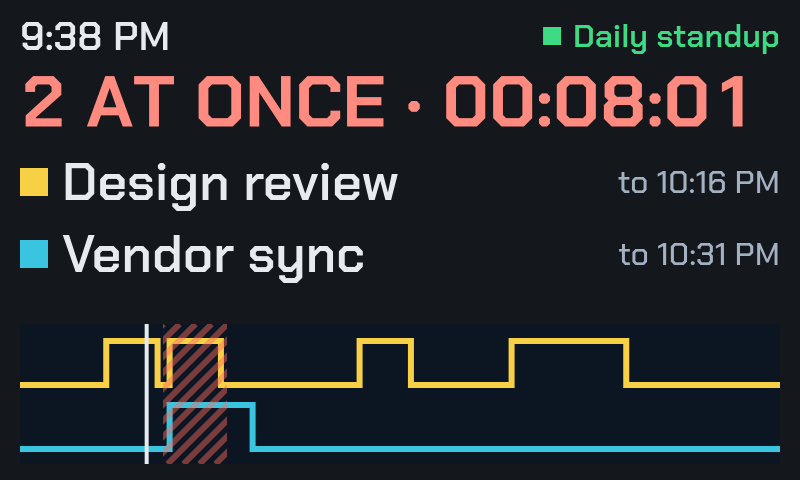
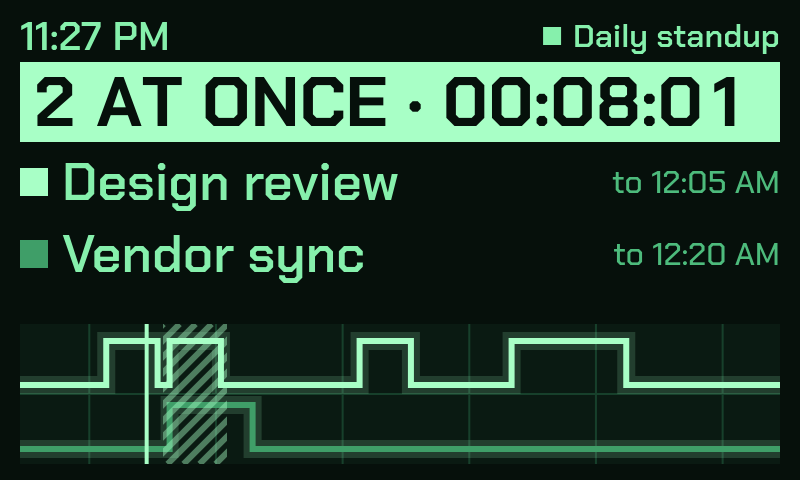
Switch the display to a green phosphor monochrome palette
Match the look of an old benchtop scope. With a single hue, collisions
and the offline flag use inverse video, the second trace is a dimmer
green, and the waveform gains an hourly graticule and a soft glow.

diff --git a/deskcal/ui.py b/deskcal/ui.py
@@ -26,17 +26,19 @@ FONT = "Chakra Petch"
 FONT_DIR = Path(__file__).parent / "fonts"
 MEDIUM, SEMIBOLD, BOLD = QFont.Medium, QFont.DemiBold, QFont.Bold
 
-BG = "#14171c"
-PANEL = "#0c1622"  # waveform background
-TEXT = "#e6ebf0"
-MUTED = "#a3b1c2"
-YELLOW = "#f7d046"  # next meeting, first trace
-CYAN = "#39c5e0"  # second trace
-GREEN = "#3ddc84"  # in progress
-RED = "#ff8a80"  # collision
-HATCH = QColor(255, 107, 94, 115)  # overlap band on the waveform
+# Green phosphor monochrome, like an old benchtop scope. With no second hue,
+# emphasis comes from brightness and from inverse video (dark on a lit bar).
+BG = "#06100b"
+PANEL = "#0a1a12"  # waveform background
+GRID = "#17402b"  # graticule
+BRIGHT = "#a8ffc6"  # countdown, first trace
+TEXT = "#86f0ac"
+MUTED = "#4dbb7c"
+TRACE2 = "#3f9e68"  # second trace
+GLOW = QColor(168, 255, 198, 40)  # phosphor bloom around a trace
+HATCH = QColor(168, 255, 198, 110)  # overlap band on the waveform
 
-CALM, SOON, URGENT, NOW = CYAN, YELLOW, RED, GREEN  # alert banner colors
+CALM = SOON = URGENT = NOW = BRIGHT  # alert banner colors
 
 W, H = 800, 480  # design size; scaled to fit the real window
 MARGIN = 20
@@ -136,6 +138,15 @@ def draw_text(
     else:
         p.drawText(QPointF(x, baseline), text)
     return QRectF(x, rect.top(), width, rect.height())
+
+
+def draw_inverse(p: QPainter, rect: QRectF, text: str, size: int, weight: int = MEDIUM) -> QRectF:
+    """Draw one line as inverse video: dark text on a lit bar."""
+    inner = rect.adjusted(10, 0, -10, 0)
+    bar = draw_text(p, inner, text, size, weight, BRIGHT).adjusted(-10, 0, 10, 0)
+    p.fillRect(bar, QColor(BRIGHT))
+    draw_text(p, inner, text, size, weight, BG)
+    return bar
 
 
 class Fetcher(QObject):
@@ -318,7 +329,7 @@ class MainWindow(QWidget):
         used = draw_text(p, row, schedule.fmt_time(now, self.cfg.clock_24h), 40, SEMIBOLD)
         if self.errors:
             rest = QRectF(used.right() + 20, row.top(), 200, row.height())
-            used = draw_text(p, rest, "OFFLINE", 32, SEMIBOLD, RED)
+            used = draw_inverse(p, rest, "OFFLINE", 32, SEMIBOLD)
         right = QRectF(used.right() + 60, row.top(), row.right() - used.right() - 60, row.height())
 
         current = schedule.current_events(self.events, now)
@@ -326,13 +337,13 @@ class MainWindow(QWidget):
             draw_text(p, right, f"{now:%a %b} {now.day}", 32, MEDIUM, MUTED, Qt.AlignRight)
             return
         title = current[0].title + (f" +{len(current) - 1}" if len(current) > 1 else "")
-        drawn = draw_text(p, right, title, 32, SEMIBOLD, GREEN, Qt.AlignRight)
-        p.fillRect(QRectF(drawn.left() - 30, row.center().y() - 9, 18, 18), QColor(GREEN))
+        drawn = draw_text(p, right, title, 32, SEMIBOLD, TEXT, Qt.AlignRight)
+        p.fillRect(QRectF(drawn.left() - 30, row.center().y() - 9, 18, 18), QColor(TEXT))
 
     def _paint_next(self, p: QPainter, now: datetime, e: Event) -> None:
         wide = W - 2 * MARGIN
         countdown = schedule.fmt_countdown(e.start, now)
-        draw_text(p, QRectF(MARGIN, 64, wide, 116), countdown, 116, BOLD, YELLOW, tabular=True)
+        draw_text(p, QRectF(MARGIN, 64, wide, 116), countdown, 116, BOLD, BRIGHT, tabular=True)
         draw_text(p, QRectF(MARGIN, 186, wide, 68), e.title, 64, SEMIBOLD, min_size=48)
         detail = describe(e, self.cfg.clock_24h, now)
         draw_text(p, QRectF(MARGIN, 262, wide, 40), detail, 32, MEDIUM, MUTED)
@@ -340,9 +351,11 @@ class MainWindow(QWidget):
     def _paint_collision(self, p: QPainter, now: datetime, group: list[Event]) -> None:
         wide = W - 2 * MARGIN
         banner = f"{len(group)} AT ONCE · {schedule.fmt_countdown(group[0].start, now)}"
-        draw_text(p, QRectF(MARGIN, 64, wide, 76), banner, 72, BOLD, RED, min_size=48, tabular=True)
+        bar = QRectF(MARGIN, 62, wide, 80)
+        p.fillRect(bar, QColor(BRIGHT))
+        draw_text(p, bar.adjusted(12, 0, -12, 0), banner, 72, BOLD, BG, min_size=48, tabular=True)
         rows = sorted(group, key=lambda e: (e.start, e.end))[:2]  # same order as the traces
-        for e, color, y in zip(rows, (YELLOW, CYAN), (154, 226)):
+        for e, color, y in zip(rows, (BRIGHT, TRACE2), (154, 226)):
             row = QRectF(MARGIN, y, wide, 56)
             p.fillRect(QRectF(row.left(), row.center().y() - 14, 28, 28), QColor(color))
             ends = "to " + schedule.fmt_time(e.end, self.cfg.clock_24h)
@@ -358,7 +371,7 @@ class MainWindow(QWidget):
             detail = "Waiting for the calendar" if self.errors else "Syncing…"
         else:
             detail = "Nothing in the next week"
-        draw_text(p, QRectF(MARGIN, 64, wide, 116), "ALL CLEAR", 104, BOLD, GREEN)
+        draw_text(p, QRectF(MARGIN, 64, wide, 116), "ALL CLEAR", 104, BOLD, BRIGHT)
         draw_text(p, QRectF(MARGIN, 186, wide, 68), "No meetings", 64, SEMIBOLD)
         draw_text(p, QRectF(MARGIN, 262, wide, 40), detail, 32, MEDIUM, MUTED)
 
@@ -375,10 +388,16 @@ class MainWindow(QWidget):
         p.save()
         p.setClipRect(WAVE)
         p.fillRect(WAVE, QColor(PANEL))
+        # Graticule: a line on every hour, plus the horizontal centre line.
+        hour = start.replace(minute=0, second=0, microsecond=0)
+        while hour < end:
+            p.fillRect(QRectF(x_of(hour) - 1, WAVE.top(), 2, WAVE.height()), QColor(GRID))
+            hour += timedelta(hours=1)
+        p.fillRect(QRectF(WAVE.left(), WAVE.center().y() - 1, WAVE.width(), 2), QColor(GRID))
         if len(rows) > 1:
-            traces = [(rows[0], YELLOW, 17, 61), ([e for r in rows[1:] for e in r], CYAN, 81, 125)]
+            traces = [(rows[0], BRIGHT, 17, 61), ([e for r in rows[1:] for e in r], TRACE2, 81, 125)]
         else:
-            traces = [(rows[0] if rows else [], YELLOW, 33, 107)]
+            traces = [(rows[0] if rows else [], BRIGHT, 33, 107)]
         for events, color, top, base in traces:
             top, base = WAVE.top() + top, WAVE.top() + base
             path = QPainterPath(QPointF(WAVE.left(), base))
@@ -391,8 +410,9 @@ class MainWindow(QWidget):
                     path.lineTo(*point)
                 edge = x1
             path.lineTo(WAVE.right(), base)
-            p.setPen(QPen(QColor(color), LINE, Qt.SolidLine, Qt.SquareCap, Qt.MiterJoin))
-            p.drawPath(path)
+            for ink, width in ((GLOW, LINE * 3), (QColor(color), LINE)):
+                p.setPen(QPen(ink, width, Qt.SolidLine, Qt.SquareCap, Qt.MiterJoin))
+                p.drawPath(path)
 
         p.setPen(QPen(HATCH, LINE, Qt.SolidLine, Qt.FlatCap))
         for a, b in schedule.overlaps(shown):
@@ -403,7 +423,7 @@ class MainWindow(QWidget):
                 p.drawLine(QPointF(x, WAVE.bottom()), QPointF(x + WAVE.height(), WAVE.top()))
                 x += 16
         p.setClipRect(WAVE)
-        p.fillRect(QRectF(x_of(now) - 2, WAVE.top(), 4, WAVE.height()), QColor(TEXT))
+        p.fillRect(QRectF(x_of(now) - 2, WAVE.top(), 4, WAVE.height()), QColor(BRIGHT))
         p.restore()
 
     def resizeEvent(self, event) -> None:  # noqa: N802 (Qt API)
